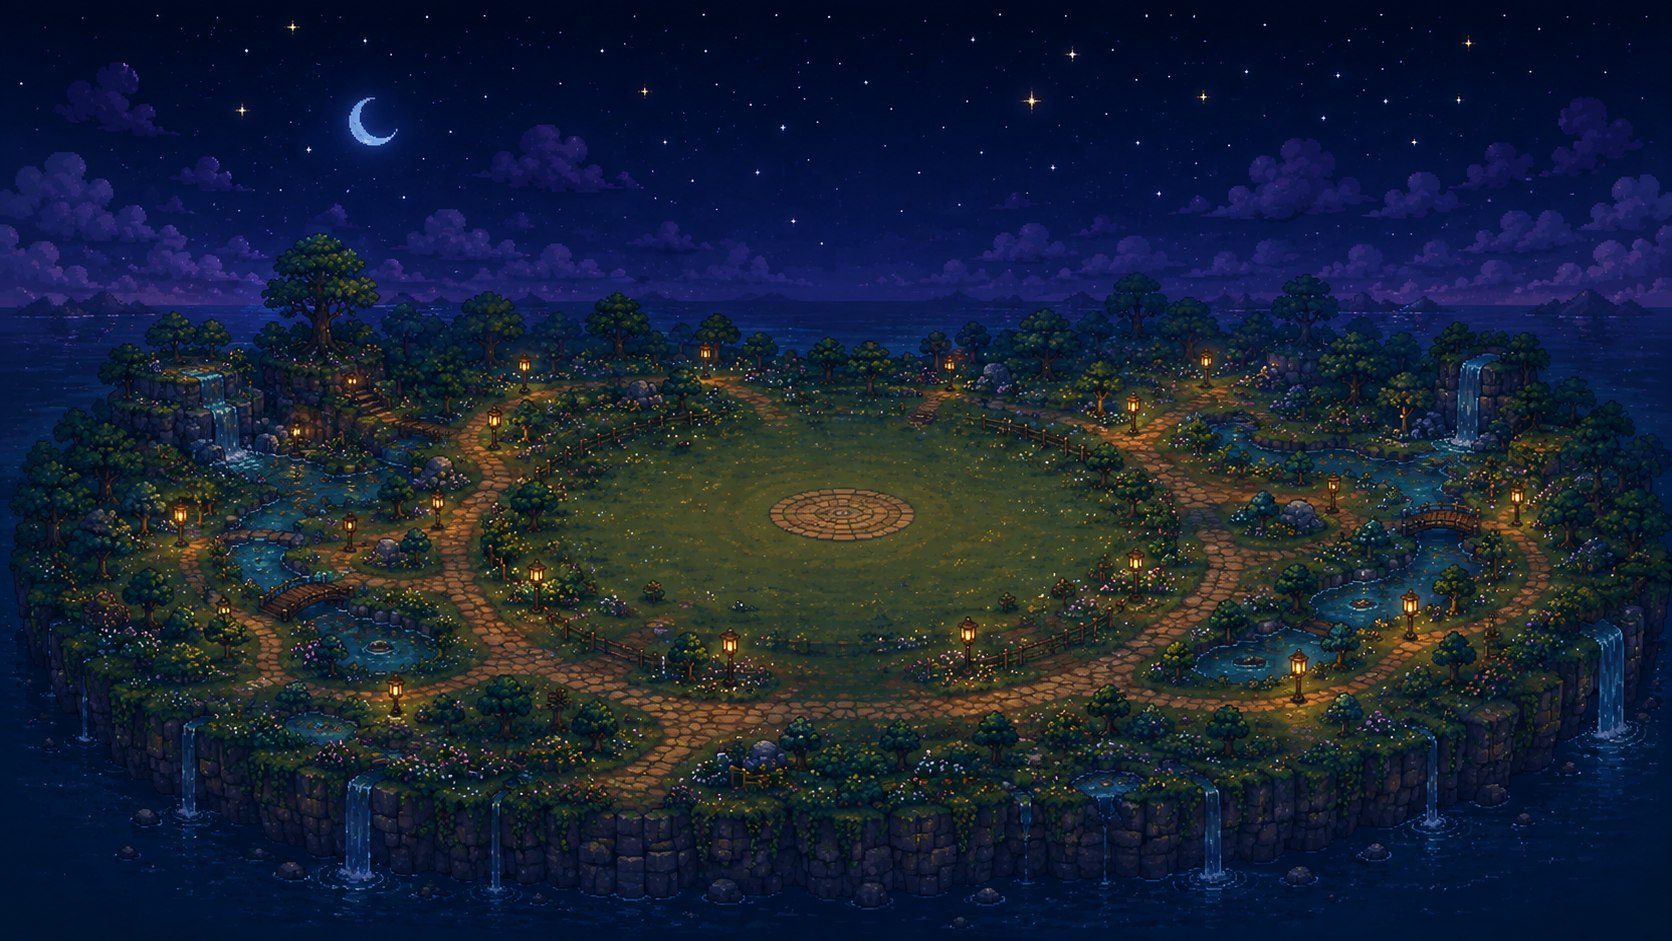
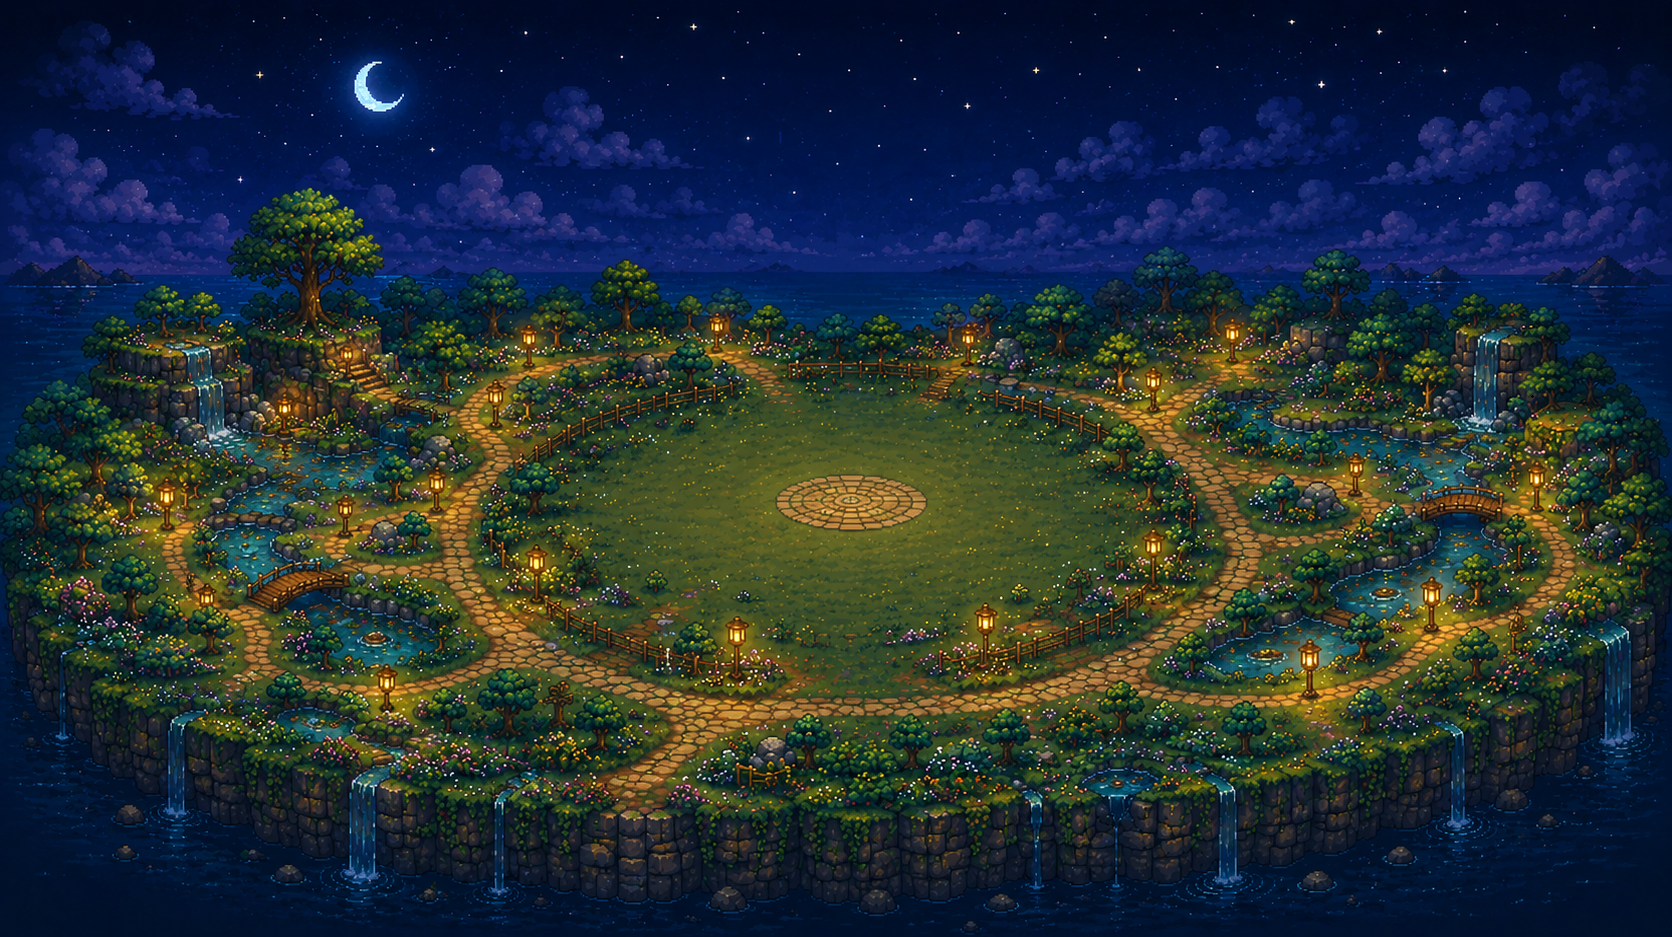
feat: add sources

diff --git a/index.html b/index.html
@@ -11,6 +11,9 @@
             <div class="world-layer">
                 <img src="assets/images/WorldBase.png" class="img-base">
             </div>
+            <div class="tree-layer">
+                <img src="assets/images/Tree/1.png" class="img-tree">
+            </div>            
             <div class="maintenance-layer">
                 <div class="maintenance-content">
                     <img src="assets/images/MaintenanceBoard.png" class="img-maintBoard">  
@@ -27,6 +30,9 @@
                         </a>
                     </div>
                 </div>  
+            </div>
+            <div class="workshop-layer">
+                <img src="assets/images/TallerModule/workshop_stage1.png" class="img-workshop">                
             </div>
             <div class="builders-layer">             
                 <img src="assets/images/Builders.gif" class="img-builders">

diff --git a/css/pages/world.css b/css/pages/world.css
@@ -90,3 +90,23 @@
     left: 70%;
     transform: rotate(-10deg);  
 }
+.tree-layer{
+    position: absolute;
+    top: 49%;
+    left: 48%;
+}
+.img-tree{    
+    width: 10%;
+    /*transform: rotate(-1deg);  */
+
+}
+.workshop-layer{
+    position: absolute;
+    top: 53%;
+    left: 53%;
+}
+.img-workshop{    
+    width: 50%;
+    /*transform: rotate(-1deg);  */
+
+}
